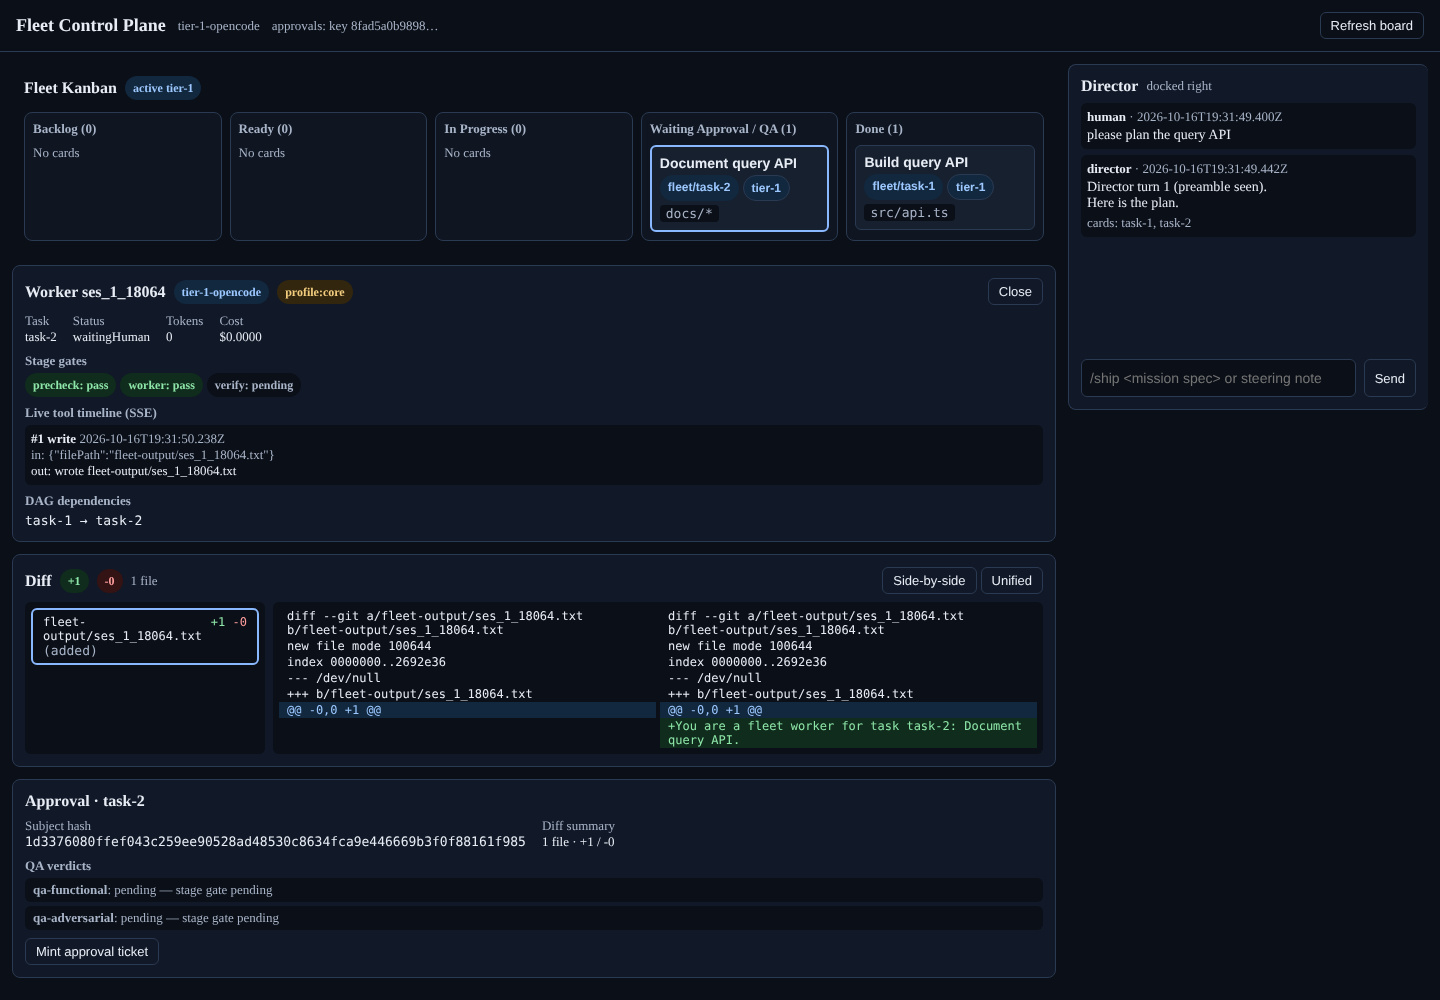
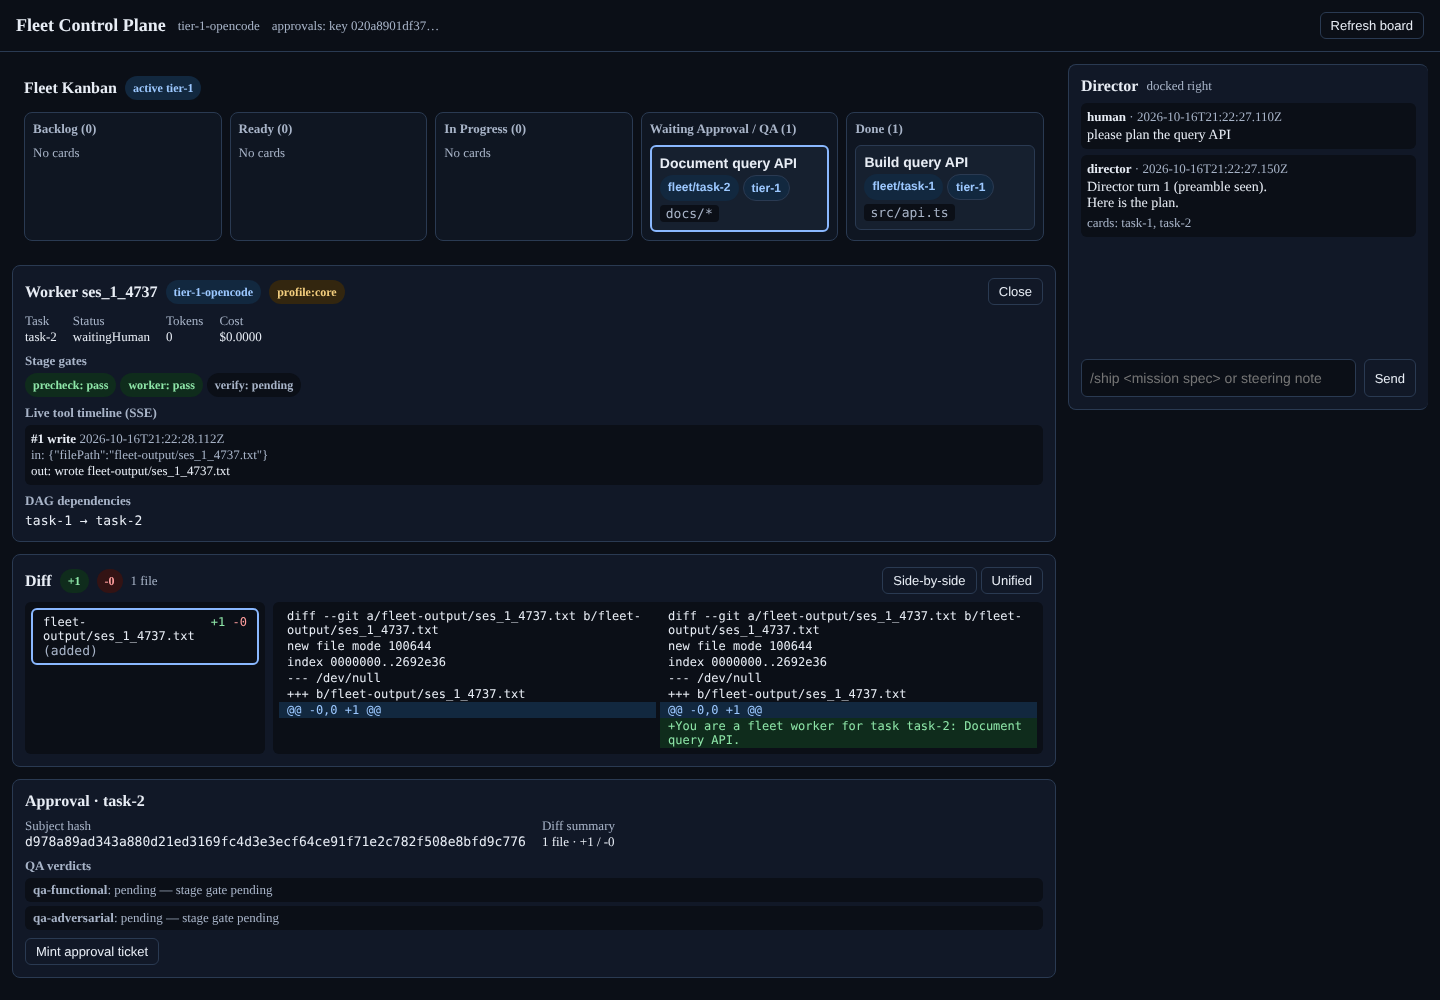
fix(nats): log <configured> when NATS_URL redaction is ambiguous
A comma inside a password split it into a fragment with no `@`, which
redactNatsUrl returned verbatim, leaking part of the password into the
startup and error logs.

Claude-Session: https://claude.ai/code/session_012AuVk4nEvBXaTjs4G6wdW4

diff --git a/dispatcher/src/nats-bridge.ts b/dispatcher/src/nats-bridge.ts
@@ -34,10 +34,15 @@ export function natsUrlFromEnv(env: Record<string, string | undefined> = process
   return url !== undefined && url.trim().length > 0 ? url.trim() : null;
 }
 
-/** `NATS_URL` with any userinfo (user, password, token) replaced by `***`, for logs. */
+/**
+ * `NATS_URL` with any userinfo (user, password, token) replaced by `***`, for logs.
+ * When the URL has an `@` that a comma split cannot attribute to one server
+ * (e.g. a password containing `,`), it returns `<configured>` instead.
+ */
 export function redactNatsUrl(url: string): string {
-  return url
-    .split(",")
+  const servers = url.split(",");
+  if (url.includes("@") && servers.some((server) => !server.includes("@"))) return "<configured>";
+  return servers
     .map((server) => {
       const at = server.lastIndexOf("@");
       if (at === -1) return server;

diff --git a/dispatcher/test/nats-bridge.test.ts b/dispatcher/test/nats-bridge.test.ts
@@ -71,6 +71,8 @@ describe("nats bridge helpers", () => {
     expect(redactNatsUrl("nats://127.0.0.1:4222")).toBe("nats://127.0.0.1:4222");
     expect(redactNatsUrl("nats://user:s3cret@host:4222")).toBe("nats://***@host:4222");
     expect(redactNatsUrl("tok@host:4222,nats://a:b@other:4222")).toBe("***@host:4222,nats://***@other:4222");
+    // A comma inside the password leaves a fragment the split cannot attribute: log nothing of it.
+    expect(redactNatsUrl("nats://user:sec,ret@host:4222")).toBe("<configured>");
     expect(subjectFor("a b.*.>")).toBe("fleet.events.a_b._._");
   });
 
